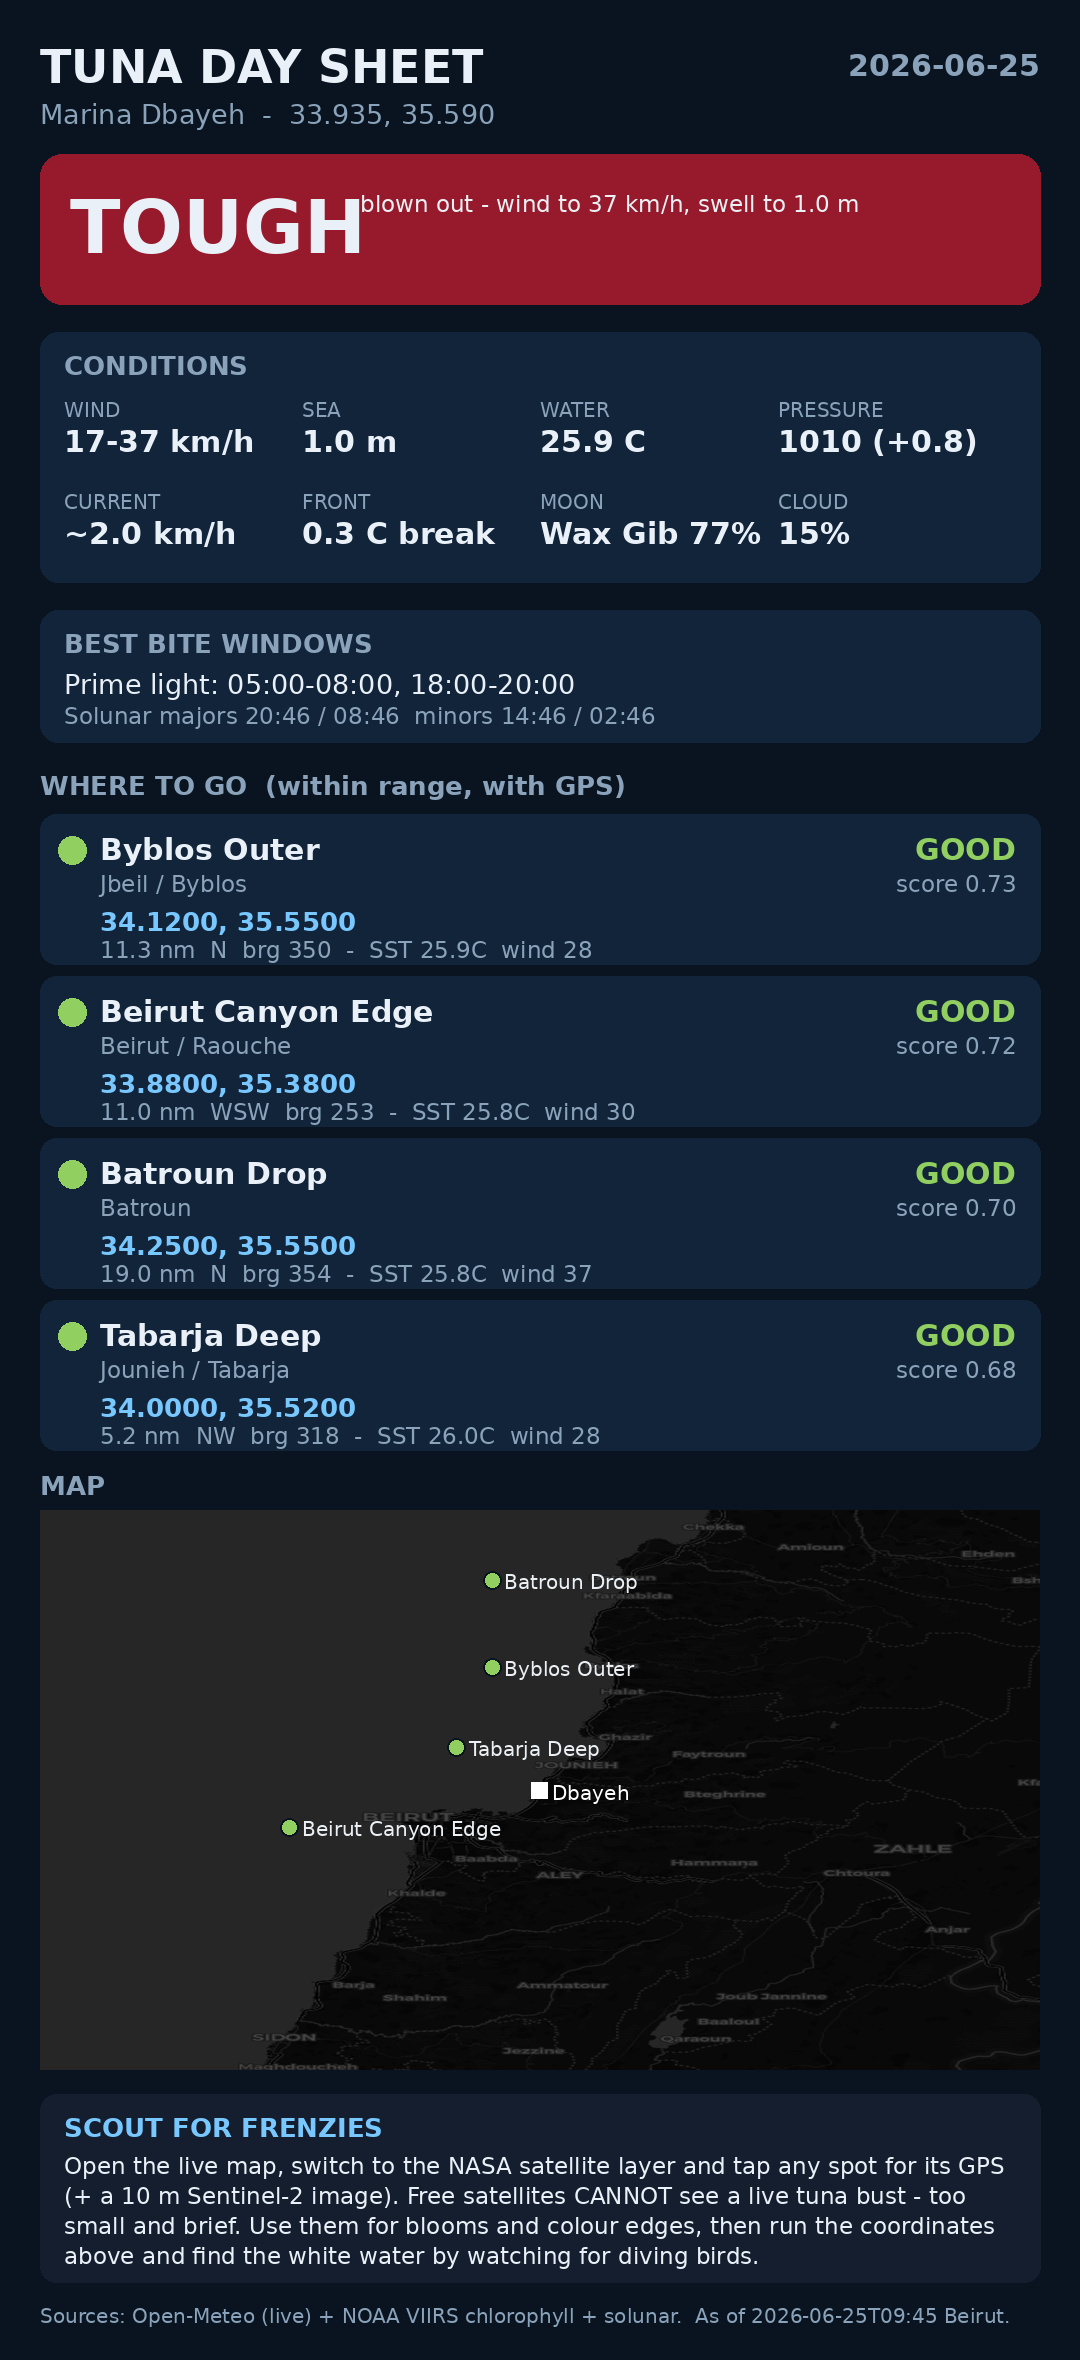
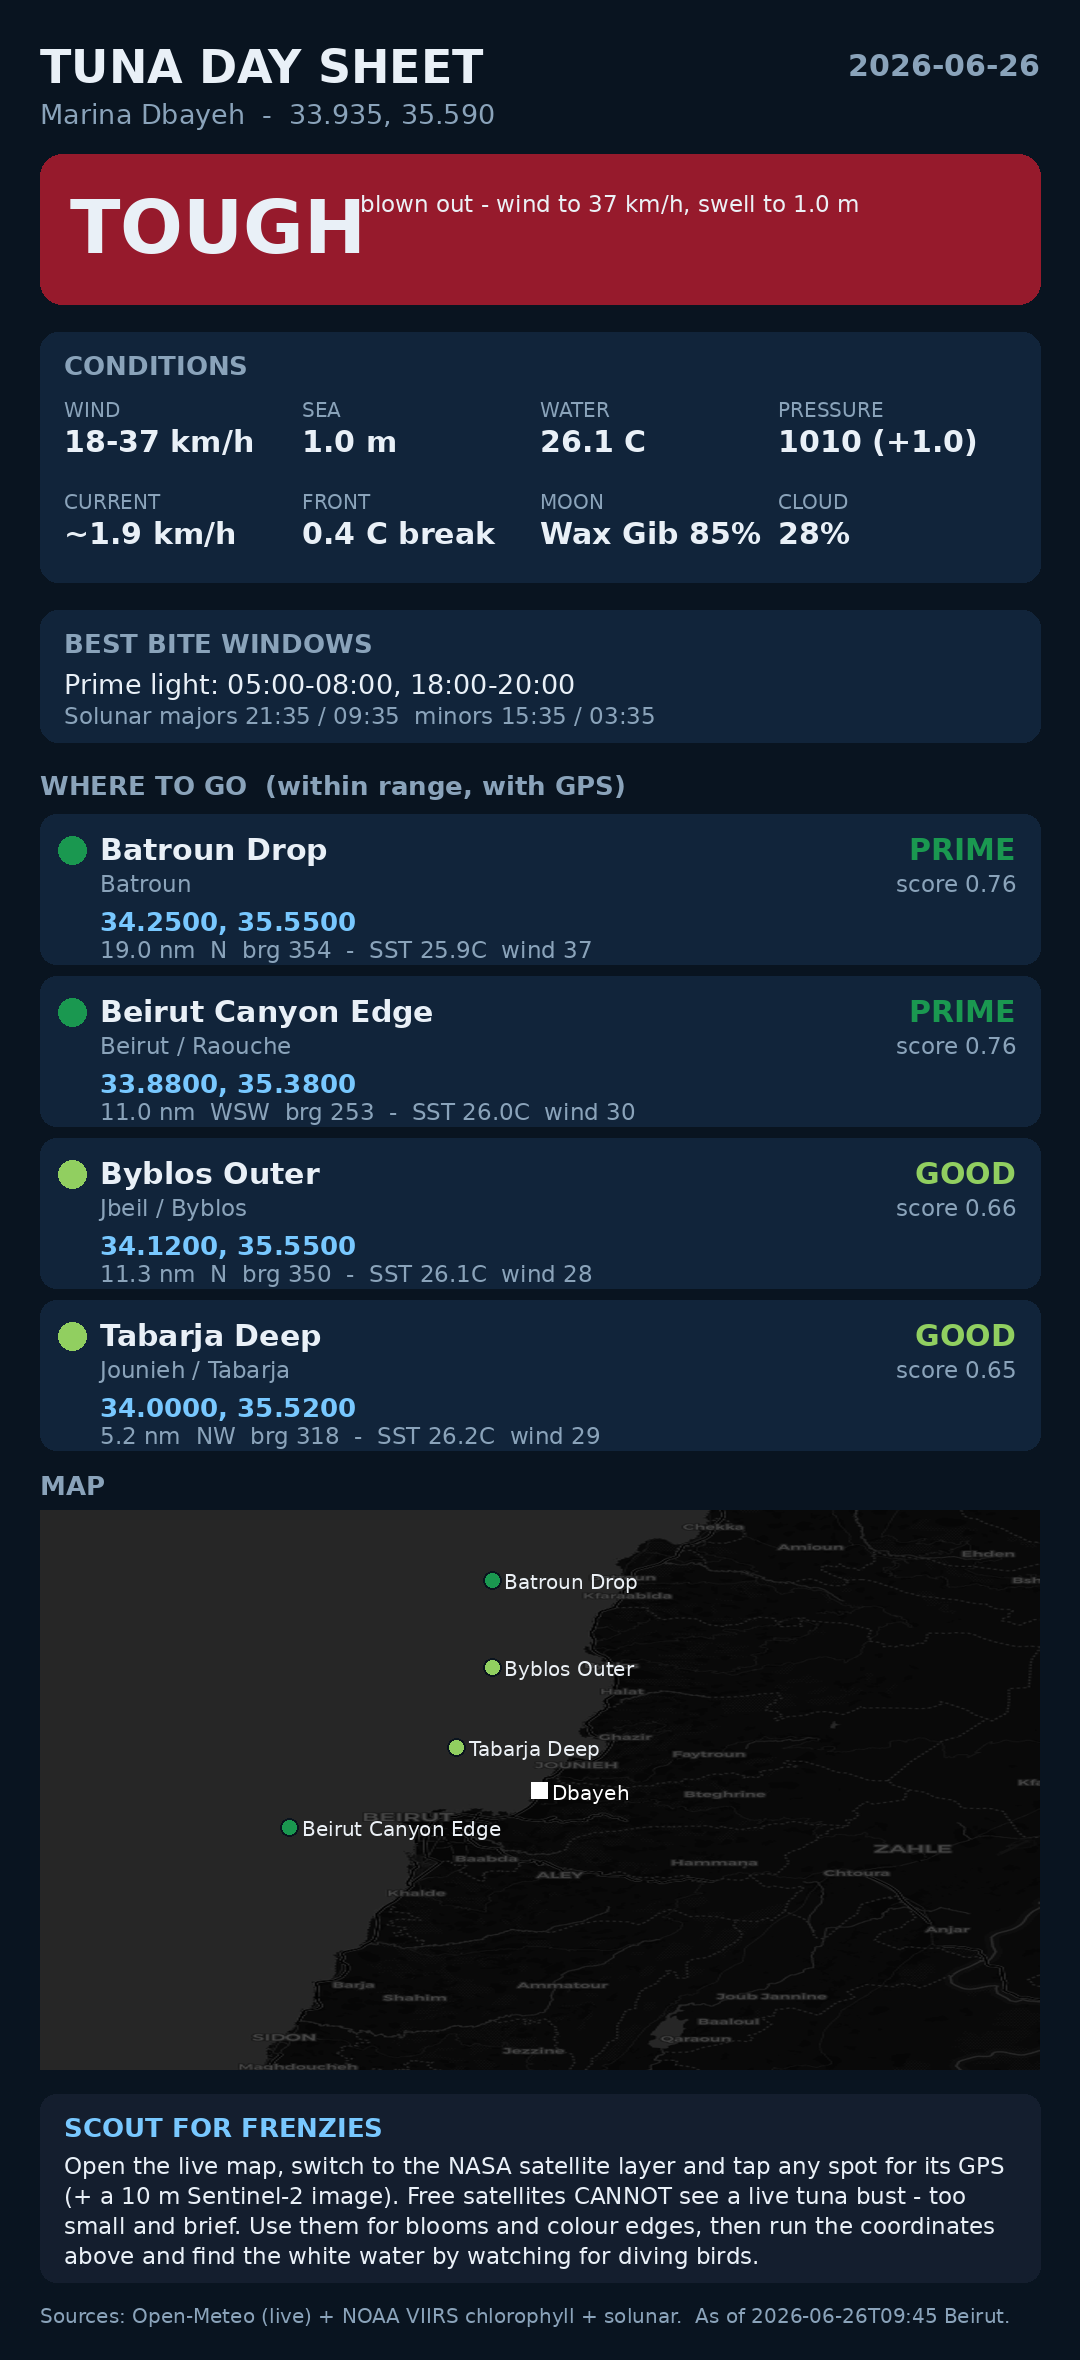
chore: daily tuna report + day image

diff --git a/docs/today.md b/docs/today.md
@@ -1,4 +1,4 @@
-# Tuna day sheet - 2026-06-25T09:45 (Asia/Beirut)
+# Tuna day sheet - 2026-06-26T09:45 (Asia/Beirut)
 
 **From Marina Baye, Dbayeh** (33.935, 35.590, range 40 km)
 
@@ -6,24 +6,24 @@
 
 | Ocean | |
 |---|---|
-| Sea temp | 25.8 C-26.1 C (avg 25.9) |
+| Sea temp | 25.9 C-26.3 C (avg 26.1) |
 | Swell | 0.8 m-1.0 m |
-| Wind | 17.1 km/h-36.7 km/h SW |
-| Pressure | 1010.2 hPa, rising (+0.8/3h) |
-| Current | ~2.0 km/h |
-| Moon | Waxing Gibbous, 77% |
-| Solunar majors | 20:46 / 08:46 (approx) |
+| Wind | 17.9 km/h-37.0 km/h SW |
+| Pressure | 1010.0 hPa, rising (+1.0/3h) |
+| Current | ~1.9 km/h |
+| Moon | Waxing Gibbous, 85% |
+| Solunar majors | 21:35 / 09:35 (approx) |
 
 ## Where to go (within range, best first)
 
 | # | Rating | Score | Dist | Head | SST | Wind | Spot | Coordinates |
 |--:|:--|--:|--:|:--|--:|--:|:--|:--|
-| 1 | GOOD | 0.73 | 11.3 nm | N | 25.9 C | 27.9 km/h | Byblos Outer (Jbeil / Byblos) | 34.120, 35.550 |
-| 2 | GOOD | 0.72 | 11.0 nm | WSW | 25.8 C | 29.8 km/h | Beirut Canyon Edge (Beirut / Raouche) | 33.880, 35.380 |
-| 3 | GOOD | 0.70 | 19.0 nm | N | 25.8 C | 36.7 km/h | Batroun Drop (Batroun) | 34.250, 35.550 |
-| 4 | GOOD | 0.68 | 5.2 nm | NW | 26.0 C | 28.5 km/h | Tabarja Deep (Jounieh / Tabarja) | 34.000, 35.520 |
-| 5 | GOOD | 0.66 | 18.5 nm | SW | 26.1 C | 17.1 km/h | Damour Banks (Khalde / Damour) | 33.700, 35.350 |
+| 1 | PRIME | 0.76 | 19.0 nm | N | 25.9 C | 37.0 km/h | Batroun Drop (Batroun) | 34.250, 35.550 |
+| 2 | PRIME | 0.76 | 11.0 nm | WSW | 26.0 C | 30.5 km/h | Beirut Canyon Edge (Beirut / Raouche) | 33.880, 35.380 |
+| 3 | GOOD | 0.66 | 11.3 nm | N | 26.1 C | 28.2 km/h | Byblos Outer (Jbeil / Byblos) | 34.120, 35.550 |
+| 4 | GOOD | 0.65 | 5.2 nm | NW | 26.2 C | 28.7 km/h | Tabarja Deep (Jounieh / Tabarja) | 34.000, 35.520 |
+| 5 | GOOD | 0.62 | 18.5 nm | SW | 26.3 C | 17.9 km/h | Damour Banks (Khalde / Damour) | 33.700, 35.350 |
 
-**Best bet:** Byblos Outer - 11.3 nm bearing 350 (N). Troll-and-cast; mark bait then drift the edge with stickbaits.
+**Best bet:** Batroun Drop - 19.0 nm bearing 354 (N). Surface busts common on calm dawns; keep poppers ready when bait sprays.
 
 > Search zones, not guaranteed marks. Bluefin are regulated - check Lebanese / ICCAT season, quota and permits before targeting them.